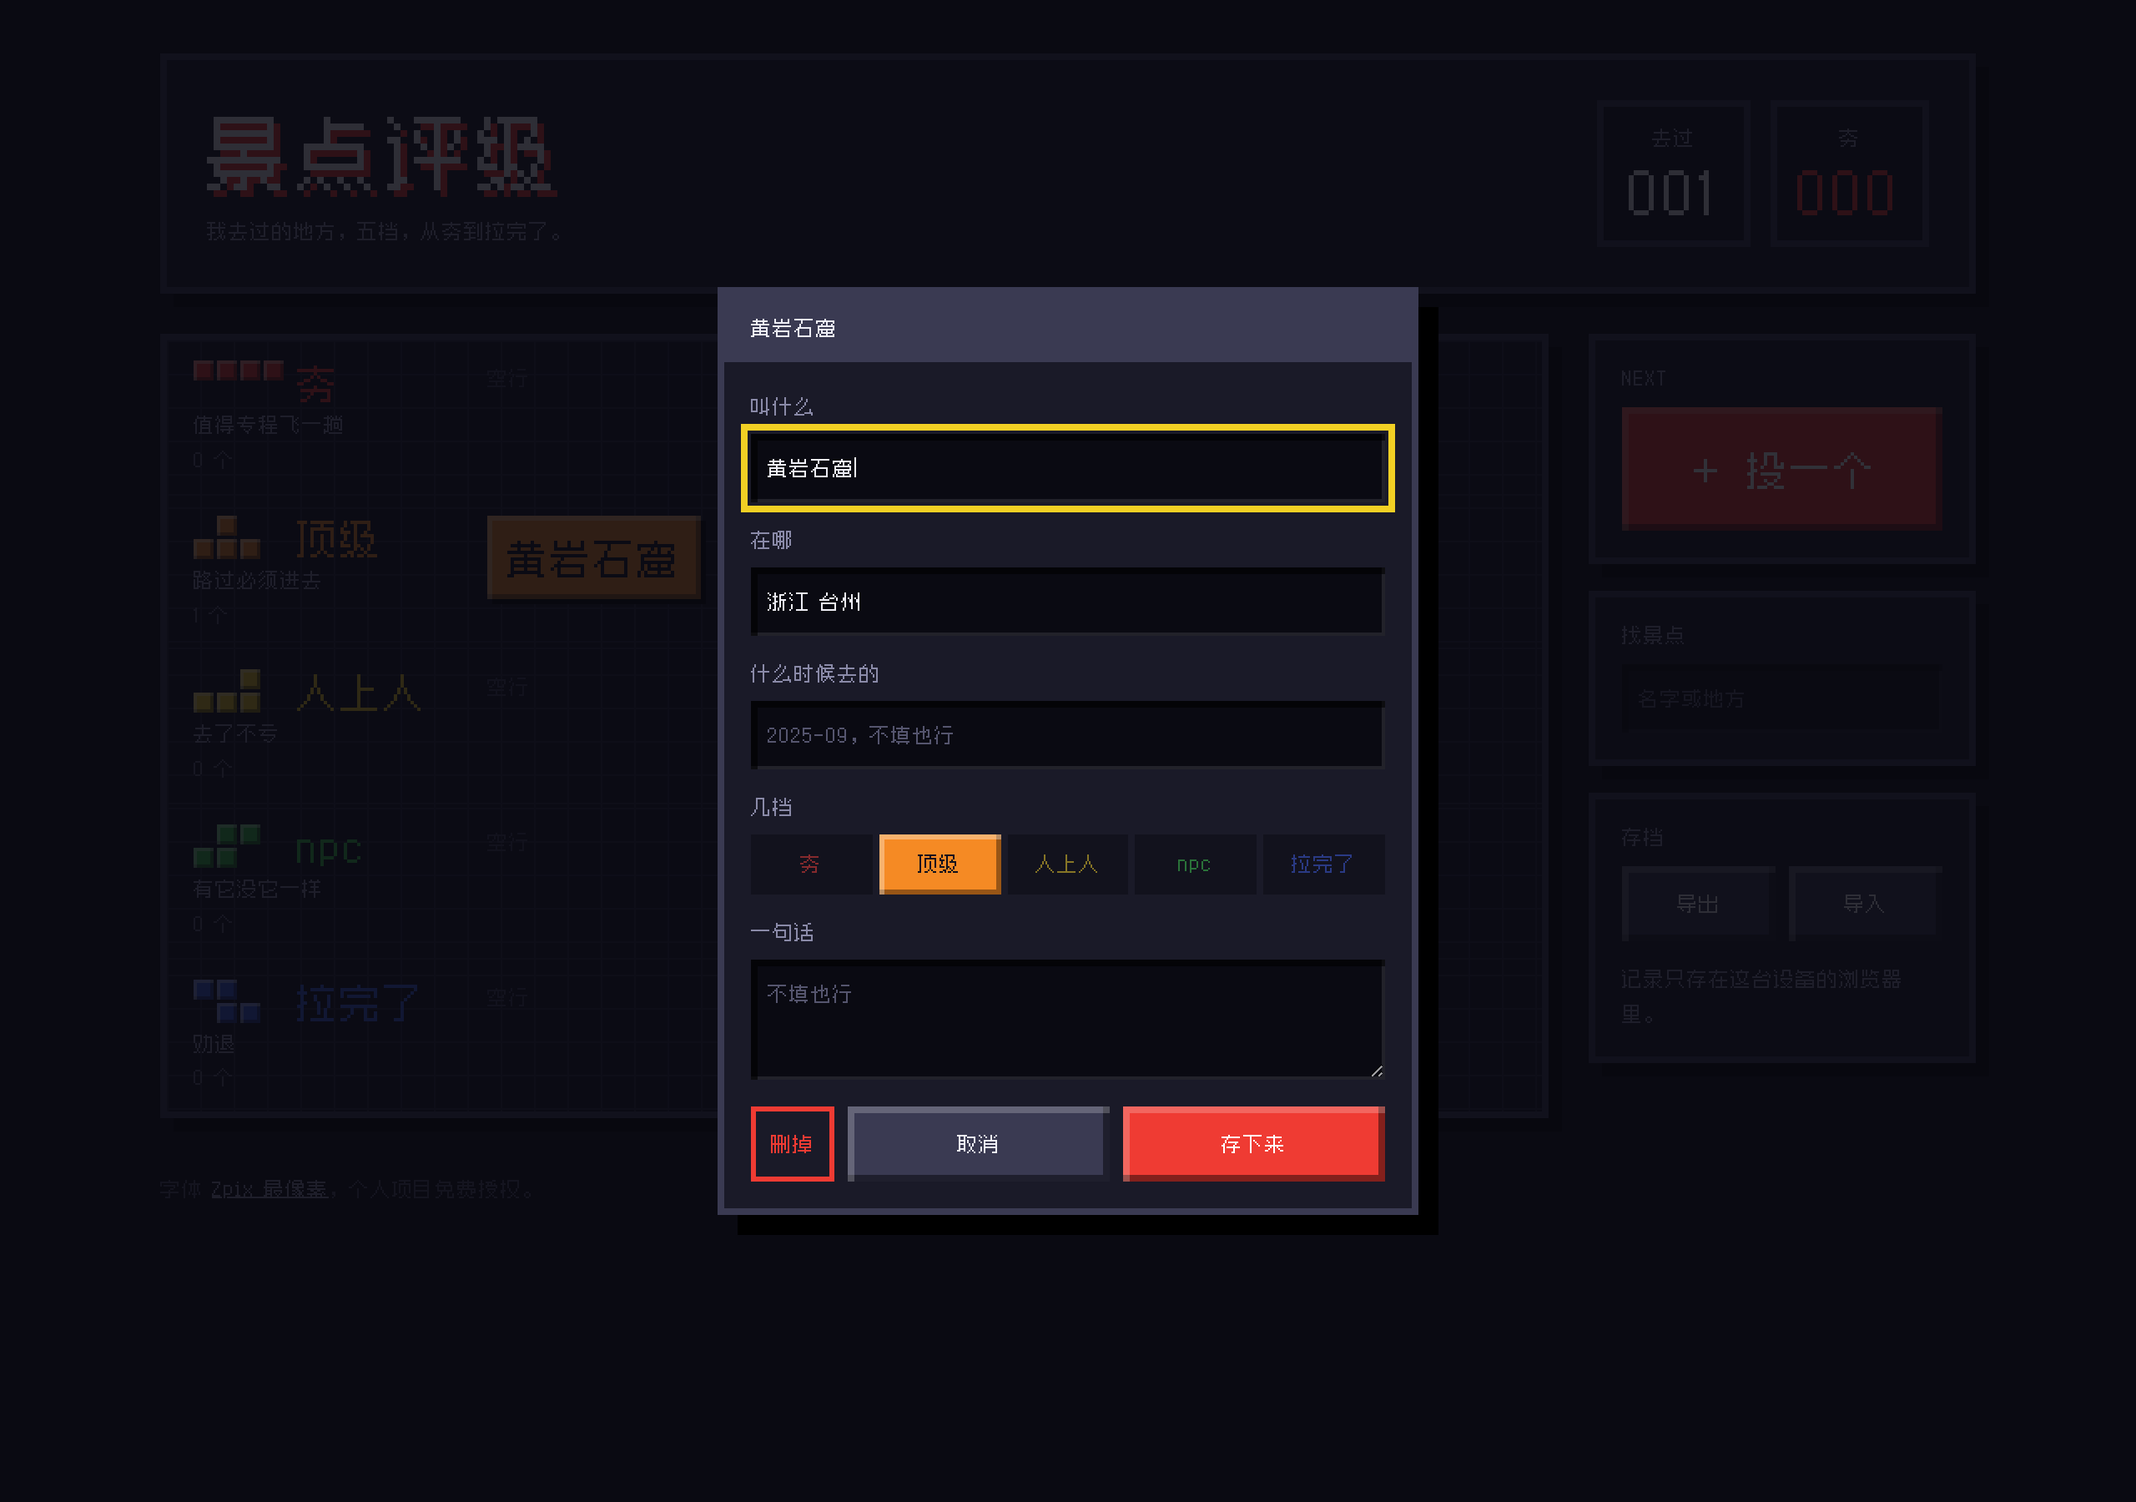
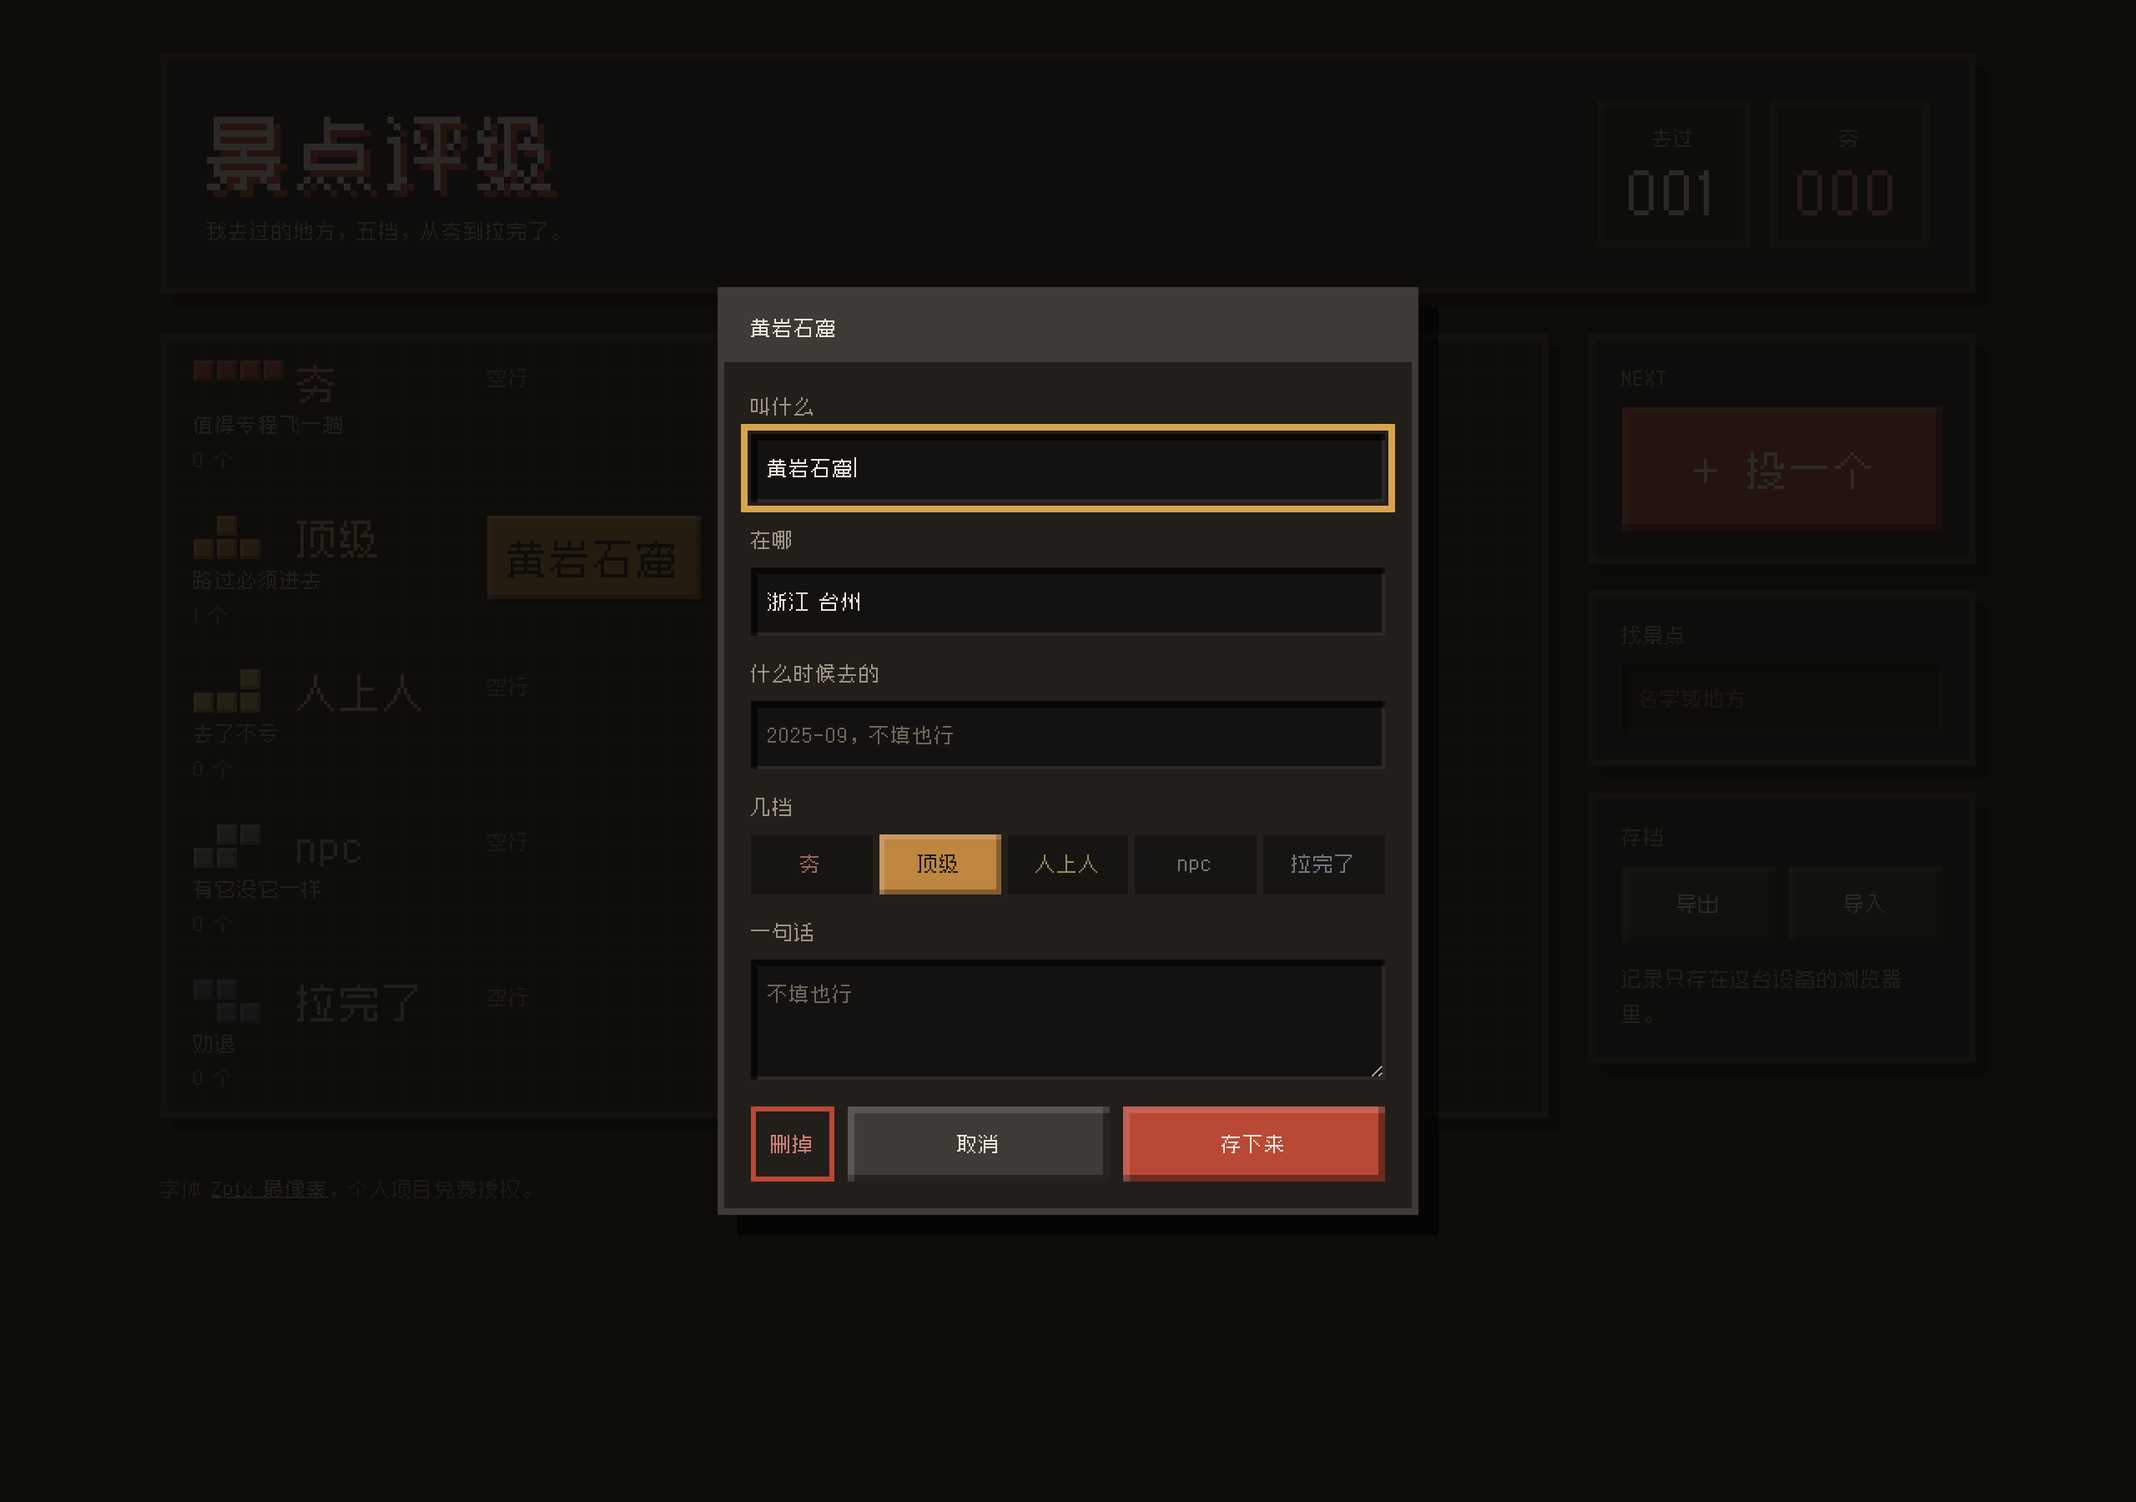
重配色：从灯管改成落灰的街机柜
原来直接用了俄罗斯方块的标称色（#EF3B33 / #F2D024 / #3BC94B 这类近原色）。
那套色是给 1989 年的 CRT 定的，经显像管衰减出来是柔的；按字面值铺成现代 sRGB
大色块、压在冷蓝黑底上，就成了廉价 LED 灯带。实测：平均饱和 79%，五档明度全挤在
51–57% 这条线上，等权打架、毫无层次。

- 底色从冷蓝黑 #0A0A12 换成暖调炭灰 #141210，机箱色往中性推
- 档位色重配，平均饱和 79% → 34%，叙事为"暖色高饱和 → 中性 → 冷色低明度"：
  夯 #BA4836 / 顶级 #BF8640 / 人上人 #B9A255 / npc #78876E / 拉完了 #515B6C
- npc 做成最中性的一档（饱和 10%），拉完了做成明度最低的一档（37%）
- 填充色与档位名文字色拆开，新增 --*-ink：填充可以暗，压在井底的档位名必须亮到 4.5:1
- 斜角白高光 34% → 18%，纯黑硬投影改半透明——那是"反光"的来源
- 变量改名 --z/--l/--o/--s/--j → --hang/--top/--ren/--npc/--la
  （旧名是骨牌字母，但实际形状是 I/T/L/S/Z，对不上）
- 新增 11 条配色断言：逐档文字对比度、档位名压井底对比度、平均饱和度上限 50%、
  npc 最中性、拉完了最暗、底色必须暖调、HUD 按钮与输入框对比度

diff --git a/index.html b/index.html
@@ -5,7 +5,7 @@
 <meta name="viewport" content="width=device-width, initial-scale=1">
 <title>景点评级 — 从夯到拉完了</title>
 <meta name="description" content="我去过的景点，五档分级：夯、顶级、人上人、npc、拉完了。">
-<meta name="theme-color" content="#0A0A12">
+<meta name="theme-color" content="#141210">
 <style>
   /* Zpix（最像素）· 个人项目免费授权 · github.com/SolidZORO/zpix-pixel-font */
   @font-face{
@@ -19,22 +19,26 @@
   :root{
     color-scheme:dark;
 
-    /* 井 */
-    --void:#0A0A12;
-    --well:#12121C;
-    --grid:#232336;
-    --edge:#3A3A52;
-    --panel:#1A1A28;
+    /* 机柜：暖调炭灰，不是冷蓝黑 —— 高饱和色压在冷黑底上才会变灯管 */
+    --void:#141210;
+    --well:#1D1A17;
+    --grid:#272320;
+    --edge:#3E3A35;
+    --panel:#221E1A;
 
-    --ink:#EDEDF5;
-    --ink-dim:#8A8AA8;
+    --ink:#EAE3D8;
+    --ink-dim:#9C9284;
+    --ghost:#7A7165;
+    --focus:#D9A54C;
 
-    /* 七种骨牌色里取五种，热→冷正好是档位梯度 */
-    --z:#EF3B33;  --z-on:#FFFFFF;
-    --l:#F58A24;  --l-on:#12121C;
-    --o:#F2D024;  --o-on:#12121C;
-    --s:#3BC94B;  --s-on:#12121C;
-    --j:#3B5BE0;  --j-on:#FFFFFF;
+    /* 档位色：暖色高饱和 → 中性 → 冷色低明度。
+       平均饱和 34%（原来 79%）。填充色与档位名文字色分开：
+       填充可以暗，压在井底上的档位名必须亮到 4.5:1。 */
+    --hang:#BA4836;  --hang-on:#F2EADC;  --hang-ink:#CA7E72;
+    --top:#BF8640;   --top-on:#1D1A17;   --top-ink:#C79E6B;
+    --ren:#B9A255;   --ren-on:#1D1A17;   --ren-ink:#C7B475;
+    --npc:#78876E;   --npc-on:#1D1A17;   --npc-ink:#97A38F;
+    --la:#515B6C;    --la-on:#F2EADC;    --la-ink:#919AAC;
 
     /* 一切都踩 4px 模数 */
     --u:4px;
@@ -72,7 +76,7 @@
     padding:24px;
     margin-bottom:24px;
     display:flex;flex-wrap:wrap;gap:24px;align-items:flex-end;
-    box-shadow:8px 8px 0 #000;
+    box-shadow:8px 8px 0 rgba(0,0,0,.5);
   }
   .marquee h1{
     margin:0;
@@ -80,7 +84,7 @@
     line-height:1.1;
     letter-spacing:2px;
     color:var(--ink);
-    text-shadow:4px 4px 0 var(--z);   /* 硬偏移，街机 logo 的做法 */
+    text-shadow:4px 4px 0 var(--hang);   /* 硬偏移，街机 logo 的做法 */
   }
   .tagline{margin:12px 0 0;color:var(--ink-dim);font-size:12px;line-height:1.6}
 
@@ -94,7 +98,7 @@
   }
   .stat .k{display:block;color:var(--ink-dim);font-size:12px}
   .stat .v{display:block;font-size:36px;line-height:1.2;font-variant-numeric:tabular-nums}
-  .stat.hi .v{color:var(--z)}
+  .stat.hi .v{color:var(--hang-ink)}
 
   /* ---------- 机台主体：井 + 侧栏 ---------- */
   .deck{display:grid;grid-template-columns:1fr 232px;gap:24px;align-items:start}
@@ -106,7 +110,7 @@
       linear-gradient(to right,var(--grid) 1px,transparent 1px),
       linear-gradient(to bottom,var(--grid) 1px,transparent 1px);
     background-size:var(--cell) var(--cell);
-    box-shadow:8px 8px 0 #000;
+    box-shadow:8px 8px 0 rgba(0,0,0,.5);
   }
 
   .row{
@@ -134,11 +138,11 @@
   .piece i{display:block}
   .piece i.on{
     background:var(--c);
-    box-shadow:inset 2px 2px 0 rgba(255,255,255,.4), inset -2px -2px 0 rgba(0,0,0,.4);
+    box-shadow:inset 2px 2px 0 rgba(255,255,255,.2), inset -2px -2px 0 rgba(0,0,0,.3);
   }
-  .tag .name{font-size:24px;line-height:1;color:var(--c)}
+  .tag .name{font-size:24px;line-height:1;color:var(--c-ink)}
   .tag .blurb{font-size:12px;color:var(--ink-dim);line-height:1.4}
-  .tag .n{font-size:12px;color:#5C5C78;font-variant-numeric:tabular-nums;line-height:1.4}
+  .tag .n{font-size:12px;color:var(--ghost);font-variant-numeric:tabular-nums;line-height:1.4}
 
   /* ---------- 方块（景点） ---------- */
   .blocks{display:flex;flex-wrap:wrap;gap:4px;align-content:start}
@@ -158,18 +162,18 @@
     overflow:hidden;
     text-overflow:ellipsis;
     box-shadow:
-      inset 3px 3px 0 rgba(255,255,255,.34),
-      inset -3px -3px 0 rgba(0,0,0,.38),
-      3px 3px 0 #000;
+      inset 3px 3px 0 rgba(255,255,255,.18),
+      inset -3px -3px 0 rgba(0,0,0,.3),
+      3px 3px 0 rgba(0,0,0,.45);
     position:relative;
   }
   .block:hover{filter:brightness(1.14)}
   .block:active{
     transform:translate(2px,2px);
     box-shadow:
-      inset -3px -3px 0 rgba(255,255,255,.2),
-      inset 3px 3px 0 rgba(0,0,0,.4),
-      1px 1px 0 #000;
+      inset -3px -3px 0 rgba(255,255,255,.12),
+      inset 3px 3px 0 rgba(0,0,0,.32),
+      1px 1px 0 rgba(0,0,0,.45);
   }
   /* 写了一句话的，角上点一个点 */
   .block.noted{padding-right:24px}
@@ -183,7 +187,7 @@
 
   .gap{
     width:100%;
-    color:#3E3E58;
+    color:var(--ghost);
     font-size:12px;
     margin:0;
     align-self:center;
@@ -195,7 +199,7 @@
     border:var(--u) solid var(--edge);
     background:var(--panel);
     padding:16px;
-    box-shadow:8px 8px 0 #000;
+    box-shadow:8px 8px 0 rgba(0,0,0,.5);
   }
   .box h2{margin:0 0 12px;font-size:12px;color:var(--ink-dim);line-height:1}
 
@@ -203,15 +207,15 @@
   button.key{
     font:inherit;font-size:12px;cursor:pointer;width:100%;
     background:var(--edge);color:var(--ink);border:0;padding:12px;
-    box-shadow:inset 4px 4px 0 rgba(255,255,255,.22), inset -4px -4px 0 rgba(0,0,0,.45);
+    box-shadow:inset 4px 4px 0 rgba(255,255,255,.14), inset -4px -4px 0 rgba(0,0,0,.4);
   }
-  button.key:hover{background:#4A4A68}
+  button.key:hover{background:#4D4942}
   button.key:active{
     transform:translate(2px,2px);
     box-shadow:inset -4px -4px 0 rgba(255,255,255,.14), inset 4px 4px 0 rgba(0,0,0,.45);
   }
-  button.key.go{background:var(--z);color:#fff;font-size:24px;padding:16px 12px}
-  button.key.go:hover{background:#FF5248}
+  button.key.go{background:var(--hang);color:var(--hang-on);font-size:24px;padding:16px 12px}
+  button.key.go:hover{background:#C9533F}
   .pair{display:grid;grid-template-columns:1fr 1fr;gap:8px}
 
   input[type=search],input[type=text],textarea{
@@ -220,19 +224,19 @@
     box-shadow:inset 4px 4px 0 rgba(0,0,0,.6), inset -2px -2px 0 rgba(255,255,255,.1);
   }
   textarea{resize:vertical;min-height:72px;line-height:1.7}
-  ::placeholder{color:#55556E}
+  ::placeholder{color:#6E6558}
 
-  :focus-visible{outline:var(--u) solid var(--o);outline-offset:2px}
+  :focus-visible{outline:var(--u) solid var(--focus);outline-offset:2px}
 
   .note{color:var(--ink-dim);font-size:12px;line-height:1.7}
-  .alert{color:var(--o);font-size:12px;line-height:1.7;margin:12px 0 0}
+  .alert{color:var(--focus);font-size:12px;line-height:1.7;margin:12px 0 0}
 
   /* ---------- 弹窗 ---------- */
   dialog{
     border:var(--u) solid var(--edge);background:var(--panel);color:var(--ink);
-    padding:0;width:min(420px,92vw);box-shadow:12px 12px 0 #000;
+    padding:0;width:min(420px,92vw);box-shadow:12px 12px 0 rgba(0,0,0,.55);
   }
-  dialog::backdrop{background:rgba(10,10,18,.84)}
+  dialog::backdrop{background:rgba(12,10,8,.86)}
   .bar{background:var(--edge);padding:10px 16px;font-size:12px}
   form{padding:16px;display:grid;gap:12px}
   .field{display:grid;gap:6px}
@@ -243,20 +247,20 @@
   .picker input{position:absolute;opacity:0;width:0;height:0}
   .picker label{
     display:block;text-align:center;font-size:12px;cursor:pointer;padding:10px 2px;
-    background:var(--void);color:var(--c);opacity:.5;user-select:none;line-height:1.3;
+    background:var(--void);color:var(--c-ink);opacity:.72;user-select:none;line-height:1.3;
   }
   .picker label:hover{opacity:.8}
   .picker input:checked + label{
     background:var(--c);color:var(--on);opacity:1;
-    box-shadow:inset 3px 3px 0 rgba(255,255,255,.34), inset -3px -3px 0 rgba(0,0,0,.38);
+    box-shadow:inset 3px 3px 0 rgba(255,255,255,.18), inset -3px -3px 0 rgba(0,0,0,.3);
   }
-  .picker input:focus-visible + label{outline:var(--u) solid var(--o);outline-offset:2px}
+  .picker input:focus-visible + label{outline:var(--u) solid var(--focus);outline-offset:2px}
   .acts{display:grid;grid-template-columns:1fr 1fr;gap:8px;margin-top:4px}
   .acts.editing{grid-template-columns:auto 1fr 1fr}
-  button.key.danger{background:transparent;color:var(--z);box-shadow:inset 0 0 0 3px var(--z)}
-  button.key.danger:hover{background:var(--z);color:#fff}
+  button.key.danger{background:transparent;color:var(--hang-ink);box-shadow:inset 0 0 0 3px var(--hang)}
+  button.key.danger:hover{background:var(--hang);color:var(--hang-on)}
 
-  footer{margin-top:32px;color:#4A4A66;font-size:12px;line-height:1.8}
+  footer{margin-top:32px;color:var(--ghost);font-size:12px;line-height:1.8}
   footer a{color:var(--ink-dim)}
 
   @media (prefers-reduced-motion:reduce){
@@ -271,10 +275,10 @@
     .stat .v{font-size:24px}
     .box.next{
       position:fixed;left:0;right:0;bottom:0;z-index:5;
-      border-left:0;border-right:0;border-bottom:0;box-shadow:0 -4px 0 #000;
+      border-left:0;border-right:0;border-bottom:0;box-shadow:0 -4px 0 rgba(0,0,0,.5);
     }
     .box.next h2{display:none}
-    .marquee h1{font-size:36px;text-shadow:3px 3px 0 var(--z)}
+    .marquee h1{font-size:36px;text-shadow:3px 3px 0 var(--hang)}
     .score{margin-left:0;width:100%}
     .stat{flex:1;min-width:0}
     .row{grid-template-columns:1fr;gap:12px}
@@ -368,15 +372,15 @@
 
   /* 五档，从高到低。每档配一个真实的四格骨牌：形状和颜色双重编码档位。 */
   var TIERS = [
-    { key:"hang", name:"夯",     blurb:"值得专程飞一趟", c:"var(--z)", on:"var(--z-on)",
+    { key:"hang", name:"夯",     blurb:"值得专程飞一趟", c:"var(--hang)", on:"var(--hang-on)", ink:"var(--hang-ink)",
       shape:[1,1,1,1, 0,0,0,0] },                                   /* I */
-    { key:"top",  name:"顶级",   blurb:"路过必须进去",   c:"var(--l)", on:"var(--l-on)",
+    { key:"top",  name:"顶级",   blurb:"路过必须进去",   c:"var(--top)", on:"var(--top-on)", ink:"var(--top-ink)",
       shape:[0,1,0,0, 1,1,1,0] },                                   /* T */
-    { key:"ren",  name:"人上人", blurb:"去了不亏",       c:"var(--o)", on:"var(--o-on)",
+    { key:"ren",  name:"人上人", blurb:"去了不亏",       c:"var(--ren)", on:"var(--ren-on)", ink:"var(--ren-ink)",
       shape:[0,0,1,0, 1,1,1,0] },                                   /* L */
-    { key:"npc",  name:"npc",    blurb:"有它没它一样",   c:"var(--s)", on:"var(--s-on)",
+    { key:"npc",  name:"npc",    blurb:"有它没它一样",   c:"var(--npc)", on:"var(--npc-on)", ink:"var(--npc-ink)",
       shape:[0,1,1,0, 1,1,0,0] },                                   /* S */
-    { key:"la",   name:"拉完了", blurb:"劝退",           c:"var(--j)", on:"var(--j-on)",
+    { key:"la",   name:"拉完了", blurb:"劝退",           c:"var(--la)", on:"var(--la-on)", ink:"var(--la-ink)",
       shape:[1,1,0,0, 0,1,1,0] }                                    /* Z */
   ];
 
@@ -480,7 +484,7 @@
         : '<p class="gap">' + (q ? "这行没有匹配的" : "空行") + '</p>';
 
       return '<section class="row' + (t.key === landedTier() ? " cleared" : "") + '"' +
-             ' style="--c:' + t.c + ';--on:' + t.on + '" aria-labelledby="h-' + t.key + '">' +
+             ' style="--c:' + t.c + ';--on:' + t.on + ';--c-ink:' + t.ink + '" aria-labelledby="h-' + t.key + '">' +
         '<div class="tag">' +
           '<div class="head">' + pieceHtml(t) +
             '<div class="name" id="h-' + t.key + '">' + esc(t.name) + '</div>' +
@@ -518,7 +522,7 @@
   var saveBtn= document.getElementById("save");
 
   document.getElementById("picker").innerHTML = TIERS.map(function(t,i){
-    return '<span style="--c:' + t.c + ';--on:' + t.on + '">' +
+    return '<span style="--c:' + t.c + ';--on:' + t.on + ';--c-ink:' + t.ink + '">' +
       '<input type="radio" name="tier" id="p-' + t.key + '" value="' + t.key + '"' + (i===1?" checked":"") + '>' +
       '<label for="p-' + t.key + '">' + esc(t.name) + '</label>' +
     '</span>';

diff --git a/README.md b/README.md
@@ -13,9 +13,13 @@
 整张表就是一块俄罗斯方块的井：每一档是井里的一行，每个景点是落进那行的方块。
 
 - 五档各配一个真实的四格骨牌——夯=I、顶级=T、人上人=L、npc=S、拉完了=Z。形状和颜色双重编码档位，不靠颜色也分得清。
-- 配色取自七种方块色，热到冷正好是分级梯度：Z红、L橙、O黄、S绿、J蓝。
+- 配色不是俄罗斯方块的标称色。那套色是 1989 年给 CRT 定的，当年经过显像管衰减出来是柔的；
+  按字面值铺成现代 sRGB 大色块、再压在冷蓝黑底上，就成了灯管。这里改成「落灰的街机柜」：
+  暖调炭灰底，颜料般的低饱和色，平均饱和 34%（标称色是 79%）。
+- 档位色的叙事是**暖色高饱和 → 中性 → 冷色低明度**：夯最烈，npc 最中性（"什么都不是"），
+  拉完了又冷又暗（"主动差"）。填充色和档位名文字色分开——填充可以暗，压在井底的字必须亮到 4.5:1。
 - 像素字没有粗体（强行加粗会糊），所以层级只靠字号和颜色，字号一律取 12 的整数倍。
-- 全站零圆角、零模糊阴影，只有硬偏移和内嵌斜角。
+- 全站零圆角、零模糊阴影，只有硬偏移和内嵌斜角（斜角高光压到 18%，再高就成反光了）。
 - 只有一个动效，且由操作触发：新方块分步落下，该行闪一次。`prefers-reduced-motion` 下自动关闭。
 
 **方块为什么只有名字。** 一开始方块里塞了名字、地点、时间、一句话和两个按钮——那是卡片的信息量，不是方块的。
